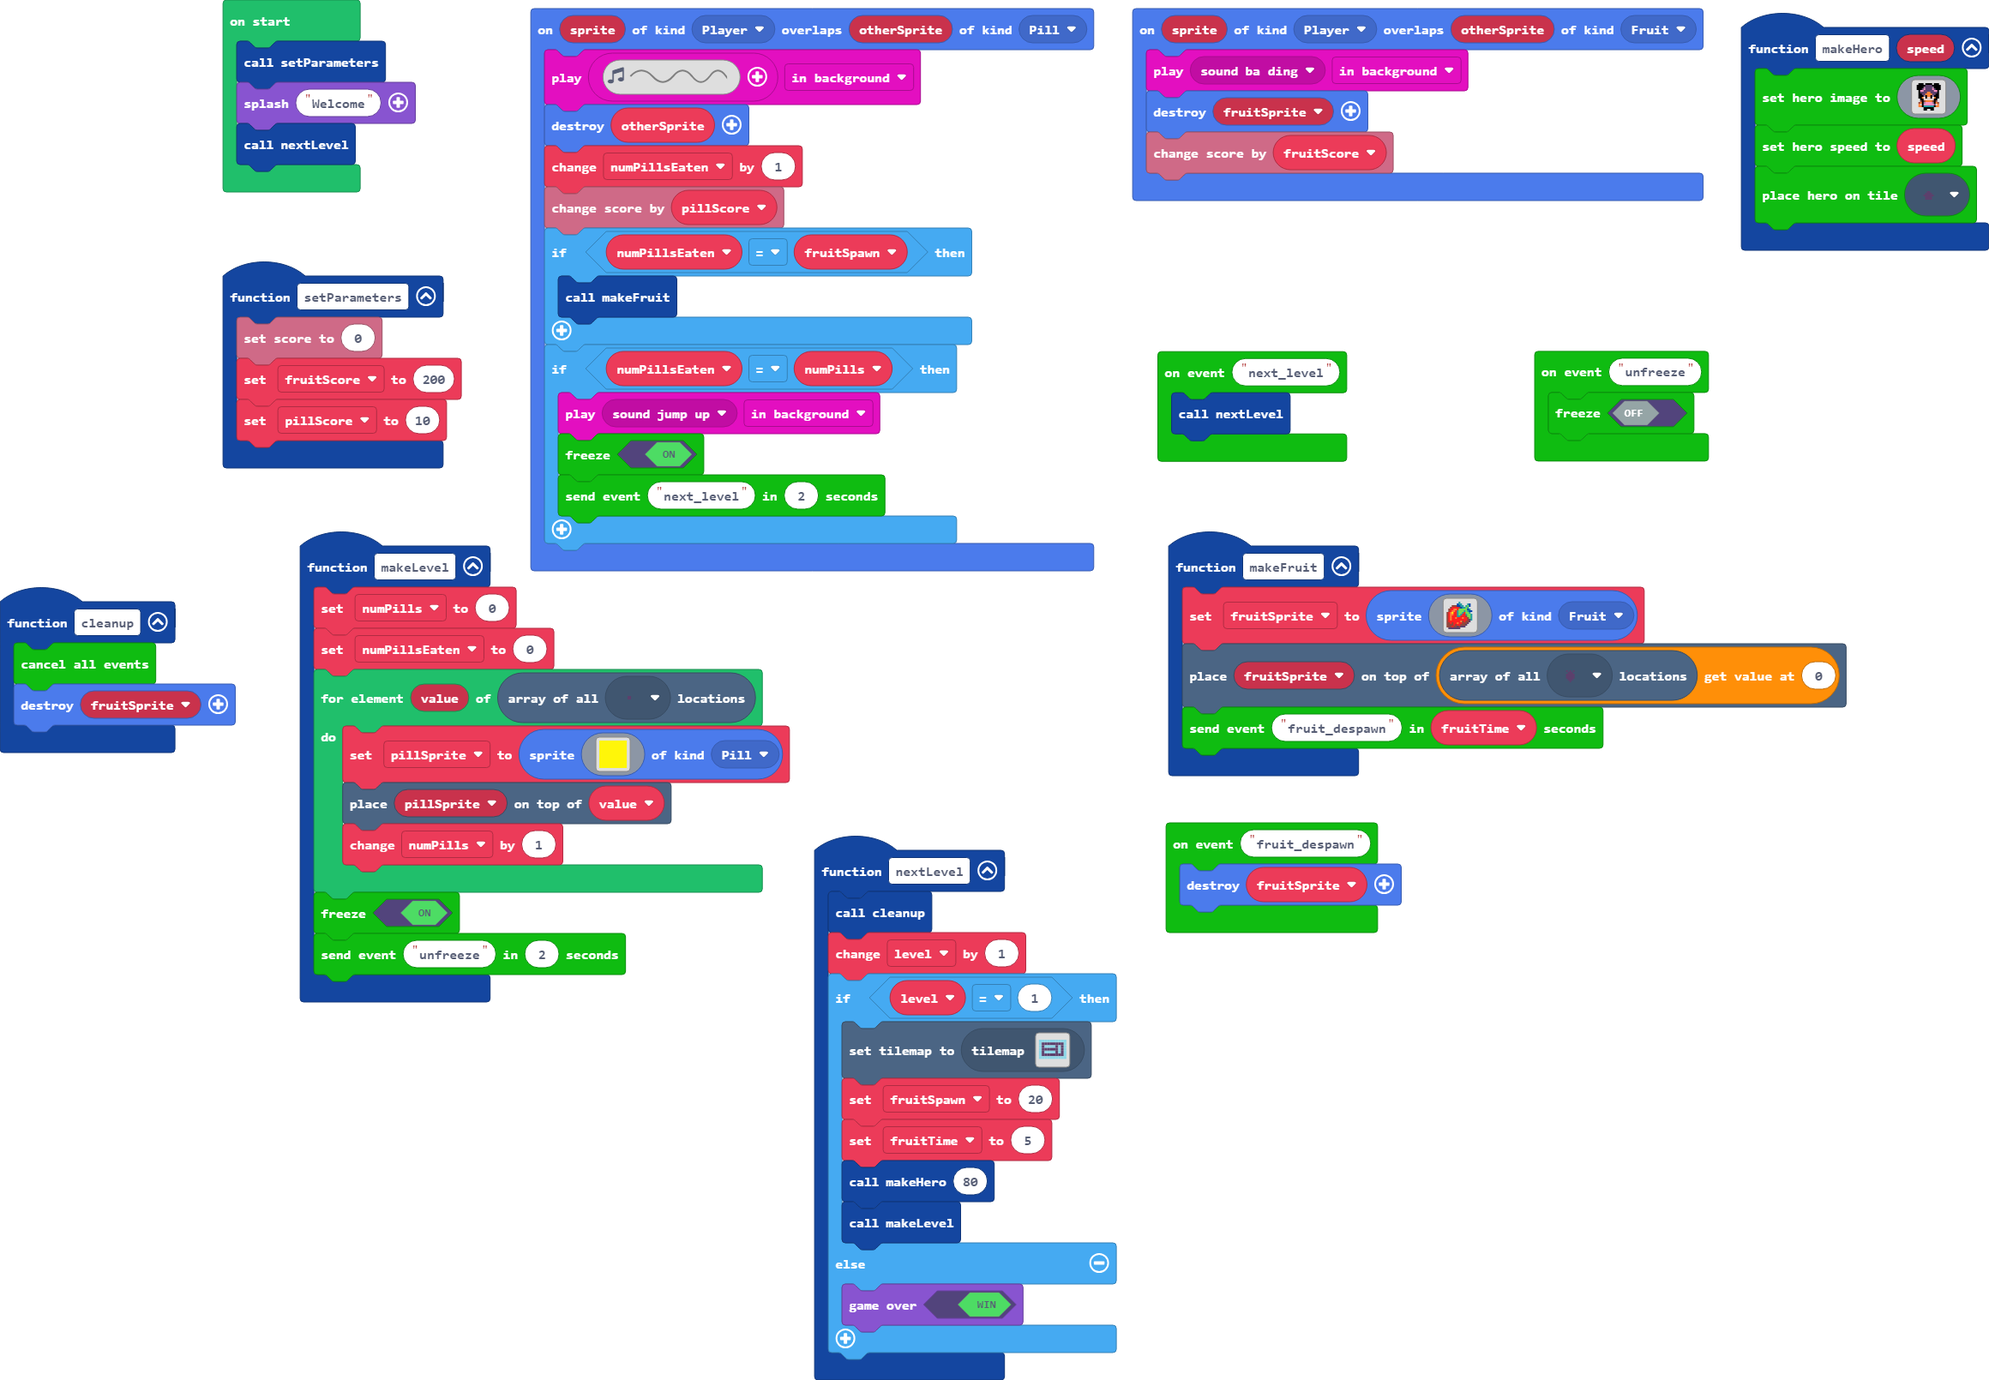
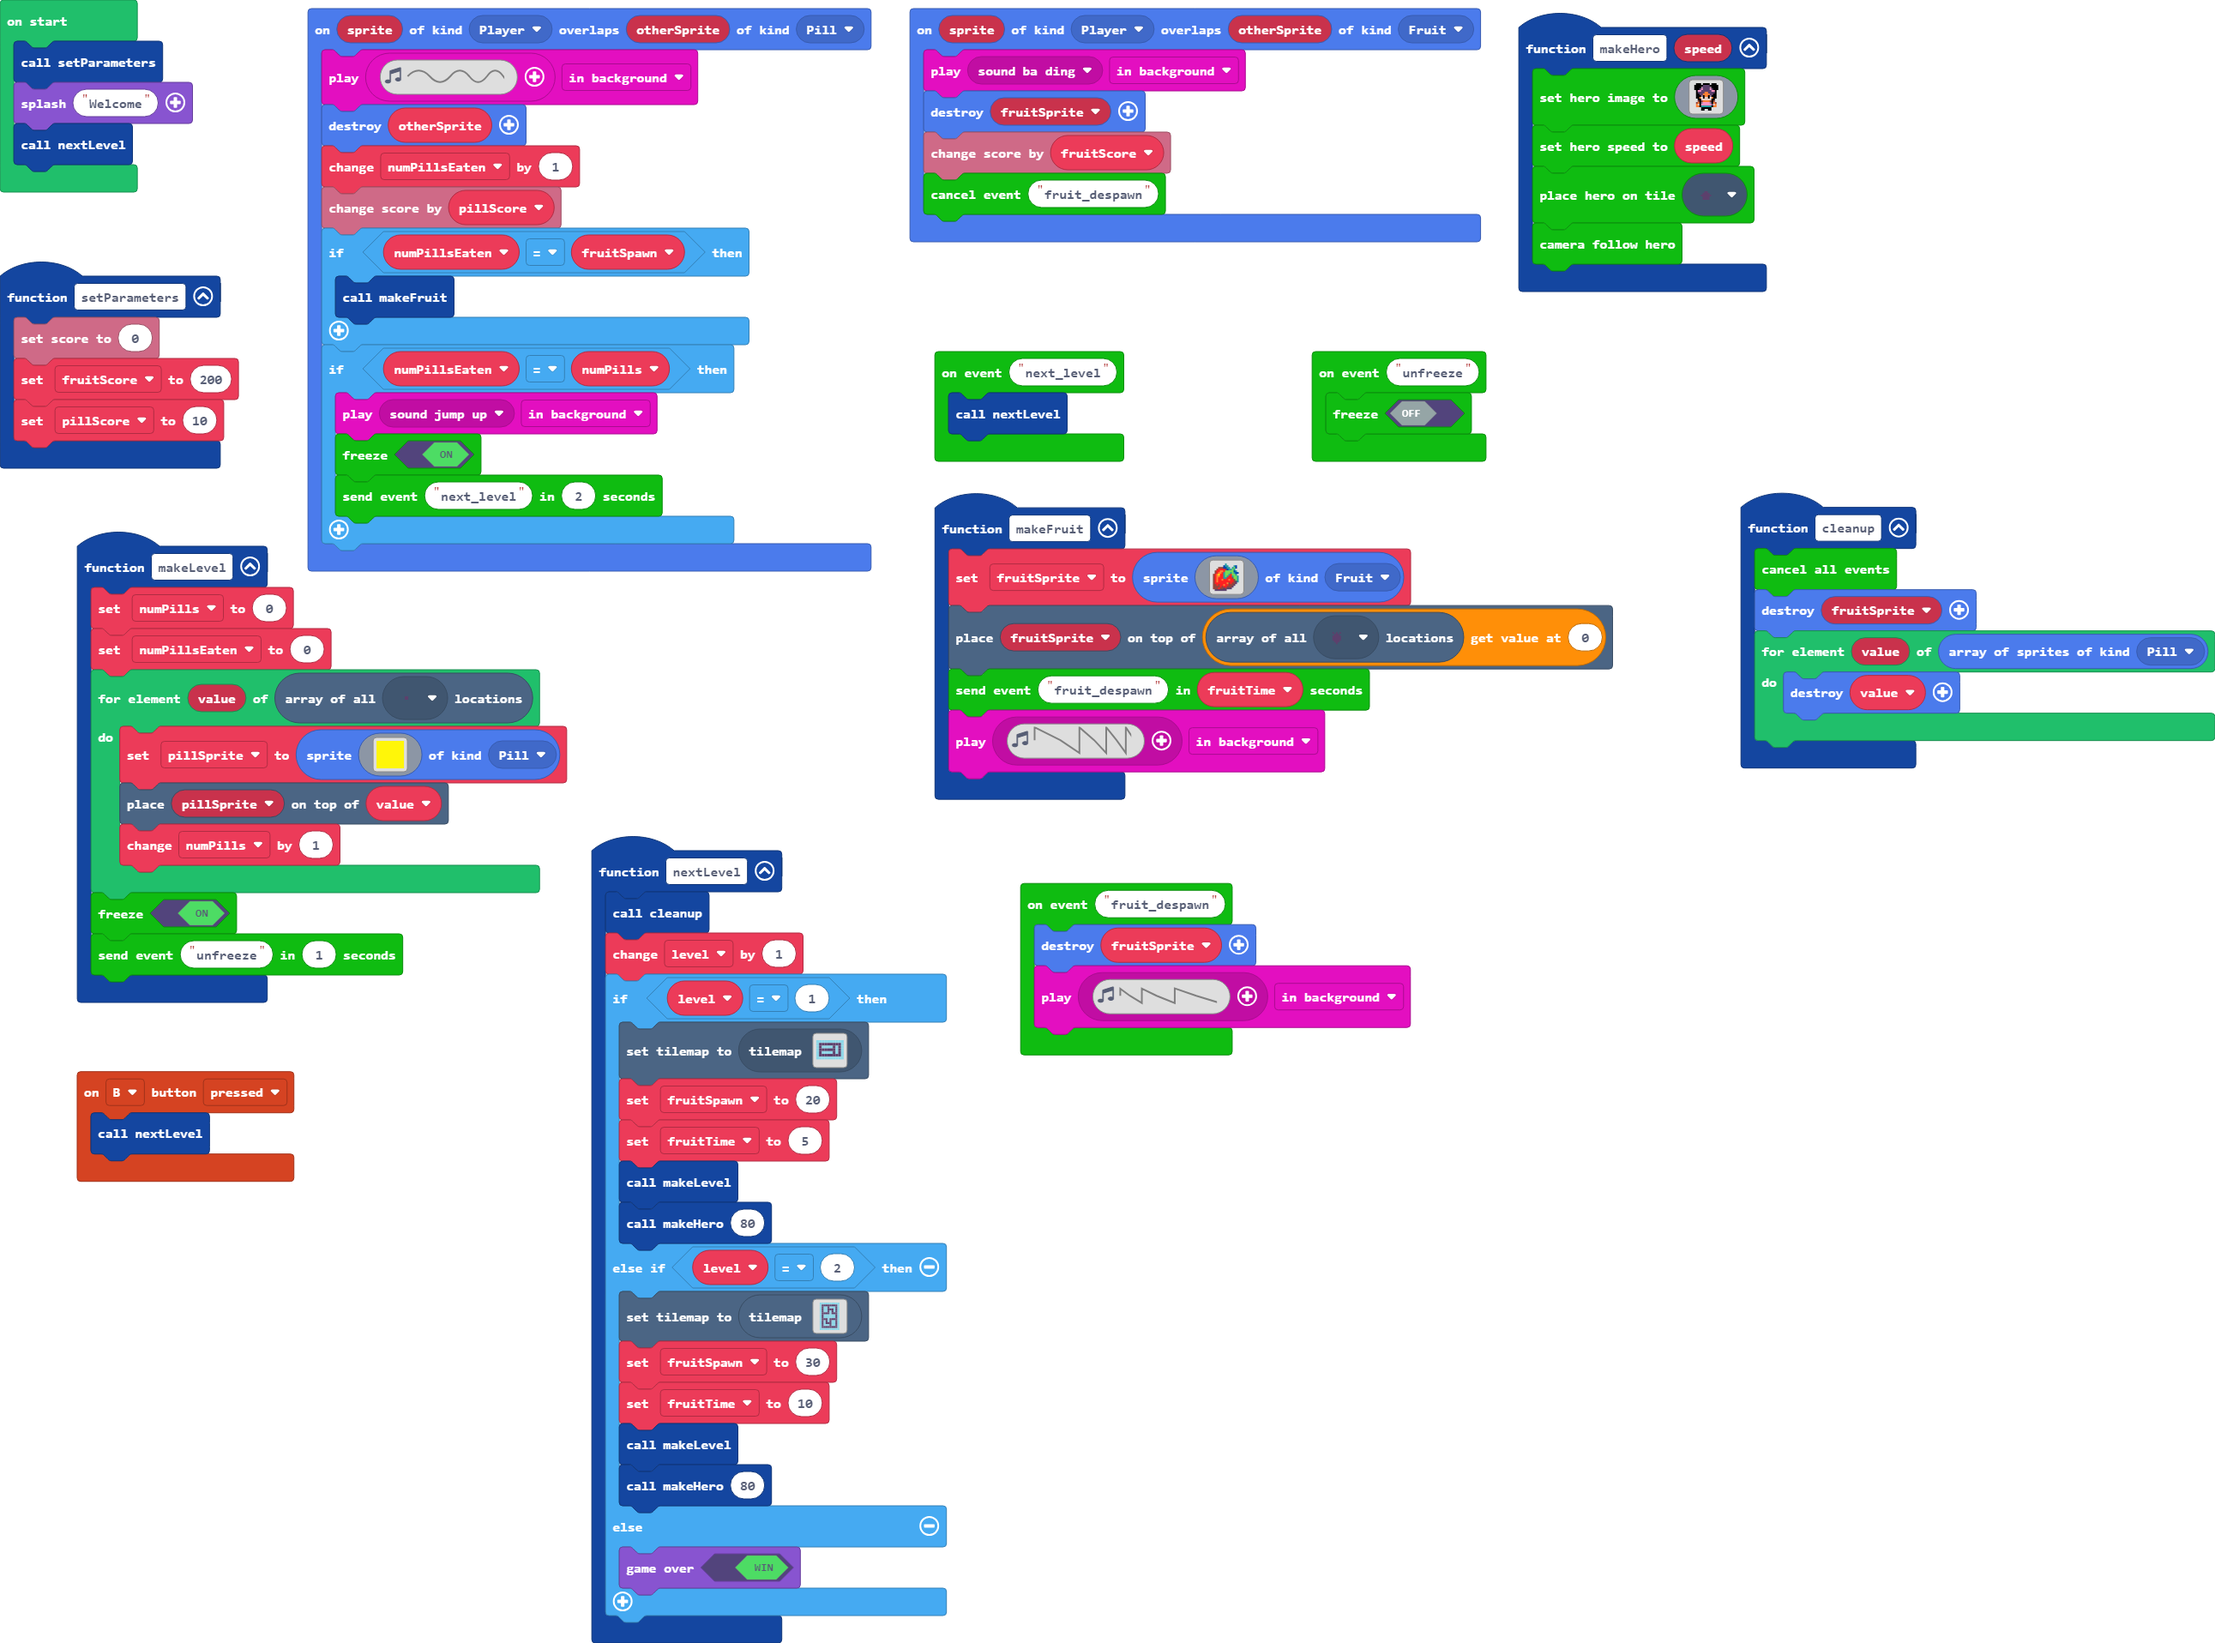
Added new level, level skip,  fruit spawn/despawn sounds

diff --git a/tilemap.g.ts b/tilemap.g.ts
@@ -61,6 +61,80 @@ namespace myTiles {
 . . . . . . . . . . . . . . . . 
 . . . . . . . . . . . . . . . . 
 `, [myTiles.transparency16], TileScale.Sixteen);
+            case "level4":
+            case "level4":return tiles.createTilemap(hex`1000100000000000000000000000000000000000000000000000000000000000000000000000000000000000000000000000000000000000000000000000000000000000000000000000000000000000000000000000000000000000000000000000000000000000000000000000000000000000000000000000000000000000000000000000000000000000000000000000000000000000000000000000000000000000000000000000000000000000000000000000000000000000000000000000000000000000000000000000000000000000000000000000000000000000000000000000000000000000000000000000000000000000000000000000000000000000`, img`
+. . . . . . . . . . . . . . . . 
+. . . . . . . . . . . . . . . . 
+. . . . . . . . . . . . . . . . 
+. . . . . . . . . . . . . . . . 
+. . . . . . . . . . . . . . . . 
+. . . . . . . . . . . . . . . . 
+. . . . . . . . . . . . . . . . 
+. . . . . . . . . . . . . . . . 
+. . . . . . . . . . . . . . . . 
+. . . . . . . . . . . . . . . . 
+. . . . . . . . . . . . . . . . 
+. . . . . . . . . . . . . . . . 
+. . . . . . . . . . . . . . . . 
+. . . . . . . . . . . . . . . . 
+. . . . . . . . . . . . . . . . 
+. . . . . . . . . . . . . . . . 
+`, [myTiles.transparency16], TileScale.Sixteen);
+            case "level5":
+            case "level5":return tiles.createTilemap(hex`1000100000000000000000000000000000000000000000000000000000000000000000000000000000000000000000000000000000000000000000000000000000000000000000000000000000000000000000000000000000000000000000000000000000000000000000000000000000000000000000000000000000000000000000000000000000000000000000000000000000000000000000000000000000000000000000000000000000000000000000000000000000000000000000000000000000000000000000000000000000000000000000000000000000000000000000000000000000000000000000000000000000000000000000000000000000000000`, img`
+. . . . . . . . . . . . . . . . 
+. . . . . . . . . . . . . . . . 
+. . . . . . . . . . . . . . . . 
+. . . . . . . . . . . . . . . . 
+. . . . . . . . . . . . . . . . 
+. . . . . . . . . . . . . . . . 
+. . . . . . . . . . . . . . . . 
+. . . . . . . . . . . . . . . . 
+. . . . . . . . . . . . . . . . 
+. . . . . . . . . . . . . . . . 
+. . . . . . . . . . . . . . . . 
+. . . . . . . . . . . . . . . . 
+. . . . . . . . . . . . . . . . 
+. . . . . . . . . . . . . . . . 
+. . . . . . . . . . . . . . . . 
+. . . . . . . . . . . . . . . . 
+`, [myTiles.transparency16], TileScale.Sixteen);
+            case "level6":
+            case "level6":return tiles.createTilemap(hex`1000100000000000000000000000000000000000000000000000000000000000000000000000000000000000000000000000000000000000000000000000000000000000000000000000000000000000000000000000000000000000000000000000000000000000000000000000000000000000000000000000000000000000000000000000000000000000000000000000000000000000000000000000000000000000000000000000000000000000000000000000000000000000000000000000000000000000000000000000000000000000000000000000000000000000000000000000000000000000000000000000000000000000000000000000000000000000`, img`
+. . . . . . . . . . . . . . . . 
+. . . . . . . . . . . . . . . . 
+. . . . . . . . . . . . . . . . 
+. . . . . . . . . . . . . . . . 
+. . . . . . . . . . . . . . . . 
+. . . . . . . . . . . . . . . . 
+. . . . . . . . . . . . . . . . 
+. . . . . . . . . . . . . . . . 
+. . . . . . . . . . . . . . . . 
+. . . . . . . . . . . . . . . . 
+. . . . . . . . . . . . . . . . 
+. . . . . . . . . . . . . . . . 
+. . . . . . . . . . . . . . . . 
+. . . . . . . . . . . . . . . . 
+. . . . . . . . . . . . . . . . 
+. . . . . . . . . . . . . . . . 
+`, [myTiles.transparency16], TileScale.Sixteen);
+            case "level7":
[1 lines of base64/hex data omitted]
+2 2 2 2 2 2 2 2 2 2 
+2 . . . . . . . . 2 
+2 . 2 2 . 2 2 2 . 2 
+2 . 2 2 . . . 2 . 2 
+2 . 2 2 . 2 . 2 . 2 
+2 . . . . 2 . . . 2 
+2 . 2 2 2 2 2 2 . 2 
+2 . 2 2 2 2 2 2 . 2 
+2 . . . 2 . . . . 2 
+2 . 2 . 2 . 2 2 . 2 
+2 . 2 . . . 2 2 . 2 
+2 . 2 2 2 . 2 2 . 2 
+2 . . . . . . . . 2 
+2 2 2 2 2 2 2 2 2 2 
+`, [myTiles.transparency16,myTiles.tile2,myTiles.tile3,myTiles.tile4,myTiles.tile1], TileScale.Sixteen);
         }
         return null;
     })

diff --git a/main.ts b/main.ts
@@ -28,7 +28,11 @@ function makeHero (speed: number) {
         `)
     maze.setHeroSpeed(speed)
     maze.placeHero(assets.tile`tile_hero`)
+    maze.cameraFollowHero()
 }
+controller.B.onEvent(ControllerButtonEvent.Pressed, function () {
+    nextLevel()
+})
 function makeLevel () {
     numPills = 0
     numPillsEaten = 0
@@ -38,16 +42,20 @@ function makeLevel () {
         numPills += 1
     }
     maze.freeze(true)
-    maze.sendEvent("unfreeze", 2)
+    maze.sendEvent("unfreeze", 1)
 }
 sprites.onOverlap(SpriteKind.Player, SpriteKind.Fruit, function (sprite, otherSprite) {
     music.play(music.melodyPlayable(music.baDing), music.PlaybackMode.InBackground)
     sprites.destroy(fruitSprite)
     info.changeScoreBy(fruitScore)
+    maze.cancelEvent("fruit_despawn")
 })
 function cleanup () {
     maze.cancelAllEvents()
     sprites.destroy(fruitSprite)
+    for (let value of sprites.allOfKind(SpriteKind.Pill)) {
+        sprites.destroy(value)
+    }
 }
 function makeFruit () {
     fruitSprite = sprites.create(img`
@@ -70,6 +78,7 @@ function makeFruit () {
         `, SpriteKind.Fruit)
     tiles.placeOnTile(fruitSprite, tiles.getTilesByType(assets.tile`tile_fruit`)[0])
     maze.sendEvent("fruit_despawn", fruitTime)
+    music.play(music.createSoundEffect(WaveShape.Sawtooth, 1, 4045, 255, 255, 250, SoundExpressionEffect.Warble, InterpolationCurve.Curve), music.PlaybackMode.InBackground)
 }
 function nextLevel () {
     cleanup()
@@ -78,8 +87,14 @@ function nextLevel () {
         tiles.setCurrentTilemap(tilemap`level1`)
         fruitSpawn = 20
         fruitTime = 5
-        makeHero(80)
         makeLevel()
+        makeHero(80)
+    } else if (level == 2) {
+        tiles.setCurrentTilemap(tilemap`level7`)
+        fruitSpawn = 30
+        fruitTime = 10
+        makeLevel()
+        makeHero(80)
     } else {
         game.gameOver(true)
     }
@@ -89,6 +104,7 @@ maze.onEvent("unfreeze", function () {
 })
 maze.onEvent("fruit_despawn", function () {
     sprites.destroy(fruitSprite)
+    music.play(music.createSoundEffect(WaveShape.Sawtooth, 3760, 1, 142, 149, 250, SoundExpressionEffect.Warble, InterpolationCurve.Curve), music.PlaybackMode.InBackground)
 })
 sprites.onOverlap(SpriteKind.Player, SpriteKind.Pill, function (sprite, otherSprite) {
     music.play(music.createSoundEffect(WaveShape.Sine, 838, 2584, 120, 120, 60, SoundExpressionEffect.None, InterpolationCurve.Linear), music.PlaybackMode.InBackground)

diff --git a/maze_hero.ts b/maze_hero.ts
@@ -50,12 +50,8 @@ namespace maze {
             this._sprite = sprites.create(img, SpriteKind.Player);
         }
 
-        placeOnImage(img: Image) {
+        place(img: Image) {
             const loc = tiles.getRandomTileByType(img)
-            this.placeOnTile(loc)
-        }
-
-        placeOnTile(loc: tiles.Location) {
             tiles.placeOnTile(this._sprite, loc)
             this._sprite.vx = 0
             this._sprite.vy = 0
@@ -214,7 +210,14 @@ namespace maze {
     //% group="Hero"
     //% block="place hero on tile %img=tileset_tile_picker"
     export function placeHero(img: Image) {
-        getMaze()._hero.placeOnImage(img)
+        getMaze()._hero.place(img)
+    }
+
+    //% blockId=maze_hero_camera_follow
+    //% group="Hero"
+    //% block="camera follow hero"
+    export function cameraFollowHero() {
+        scene.cameraFollowSprite(getMaze()._hero._sprite)
     }
 
     //% blockId=maze_hero_set_speed
